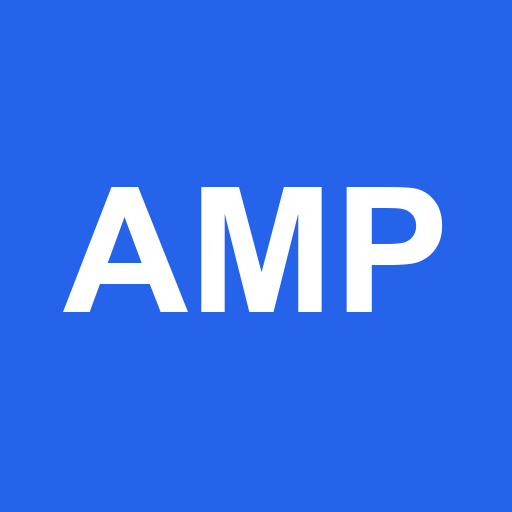
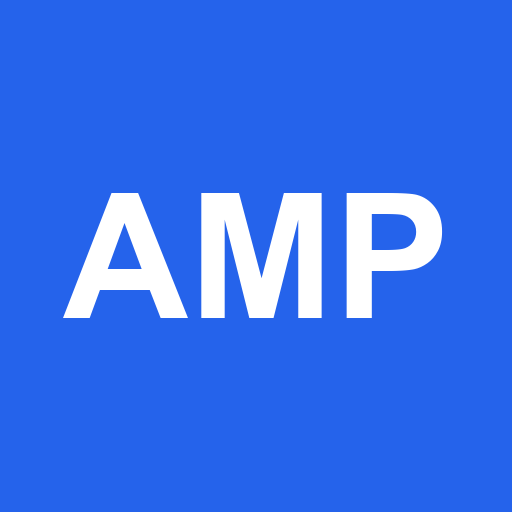
student video page: refresh

diff --git a/amp/kimal26-x7q4/index.html b/amp/kimal26-x7q4/index.html
@@ -1,7 +1,7 @@
 <!doctype html><html lang=ko><head><meta charset=utf-8><meta name=robots content="noindex,nofollow">
 <meta name=viewport content="width=device-width,initial-scale=1"><meta name="theme-color" content="#2563eb">
-<link rel="manifest" href="manifest.json"><link rel="apple-touch-icon" href="icon-192.png"><link rel="icon" href="icon-192.png">
-<meta name="apple-mobile-web-app-title" content="AMP 해설"><title>AMP 해설 영상</title><style>
+<link rel="manifest" href="manifest.json"><link rel="apple-touch-icon" href="icon-180.png"><link rel="icon" href="icon-192.png">
+<meta name="apple-mobile-web-app-title" content="AMP 해설"><meta name="mobile-web-app-capable" content="yes"><meta name="apple-mobile-web-app-capable" content="yes"><meta name="apple-mobile-web-app-status-bar-style" content="default"><title>AMP 해설 영상</title><style>
 [hidden]{display:none!important}
 :root{--bg:#f6f7fb;--card:#fff;--ink:#141c27;--mute:#5f6b7c;--line:#e2e6ee;--acc:#2563eb;--acc2:#e8f0ff;--new:#16a34a;
 --newbg:#eaf8ef;--soon:#b45309;--soonbg:#fff6e6;--off:#a5adba}
@@ -630,7 +630,7 @@ footer{color:var(--mute);font-size:12px;text-align:center;padding:24px 0}
 <details data-lv="1"><summary><span class="t">알맹이 10 · 방정식의 실근의 개수 (f(x)=k, 부호, 사차, 두 곡선의 교점, 접선의 개수)</span><span class="c">기본 · 1/1</span></summary><div class="vids">
 <a data-t="136 알맹이 10 방정식의 실근의 개수 (f(x)=k, 부호, 사차, 두 곡선의 교점, 접선의 개수) 삼차방정식의 실근의 개수" href="https://masonkat.github.io/q/11-2-2/136">136번<small>삼차방정식의 실근의 개수</small></a>
 </div></details>
-</section><footer>업데이트 2026-10-29 16:42 · AMP</footer></div><script>
+</section><footer>업데이트 2026-10-29 16:53 · AMP</footer></div><script>
 let g='고1', lv='all';
 const qs=s=>[...document.querySelectorAll(s)], q=document.getElementById('q');
 function apply(){const s=q.value.trim();
